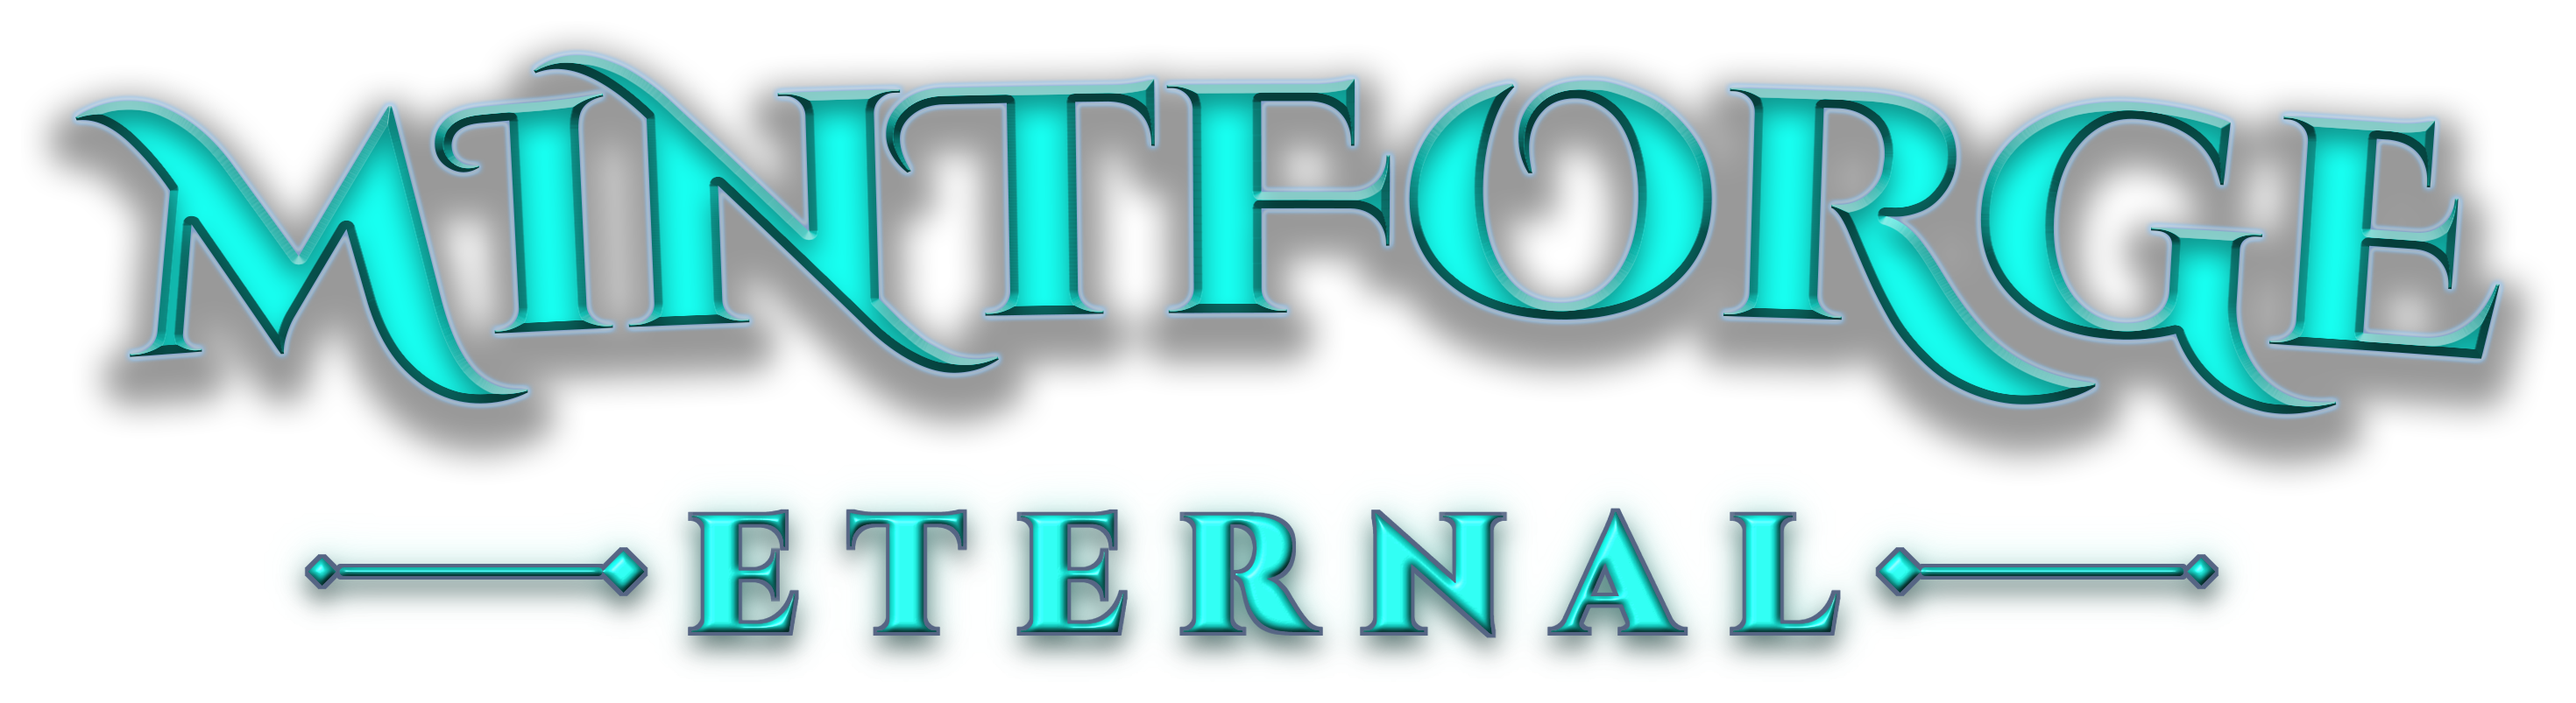
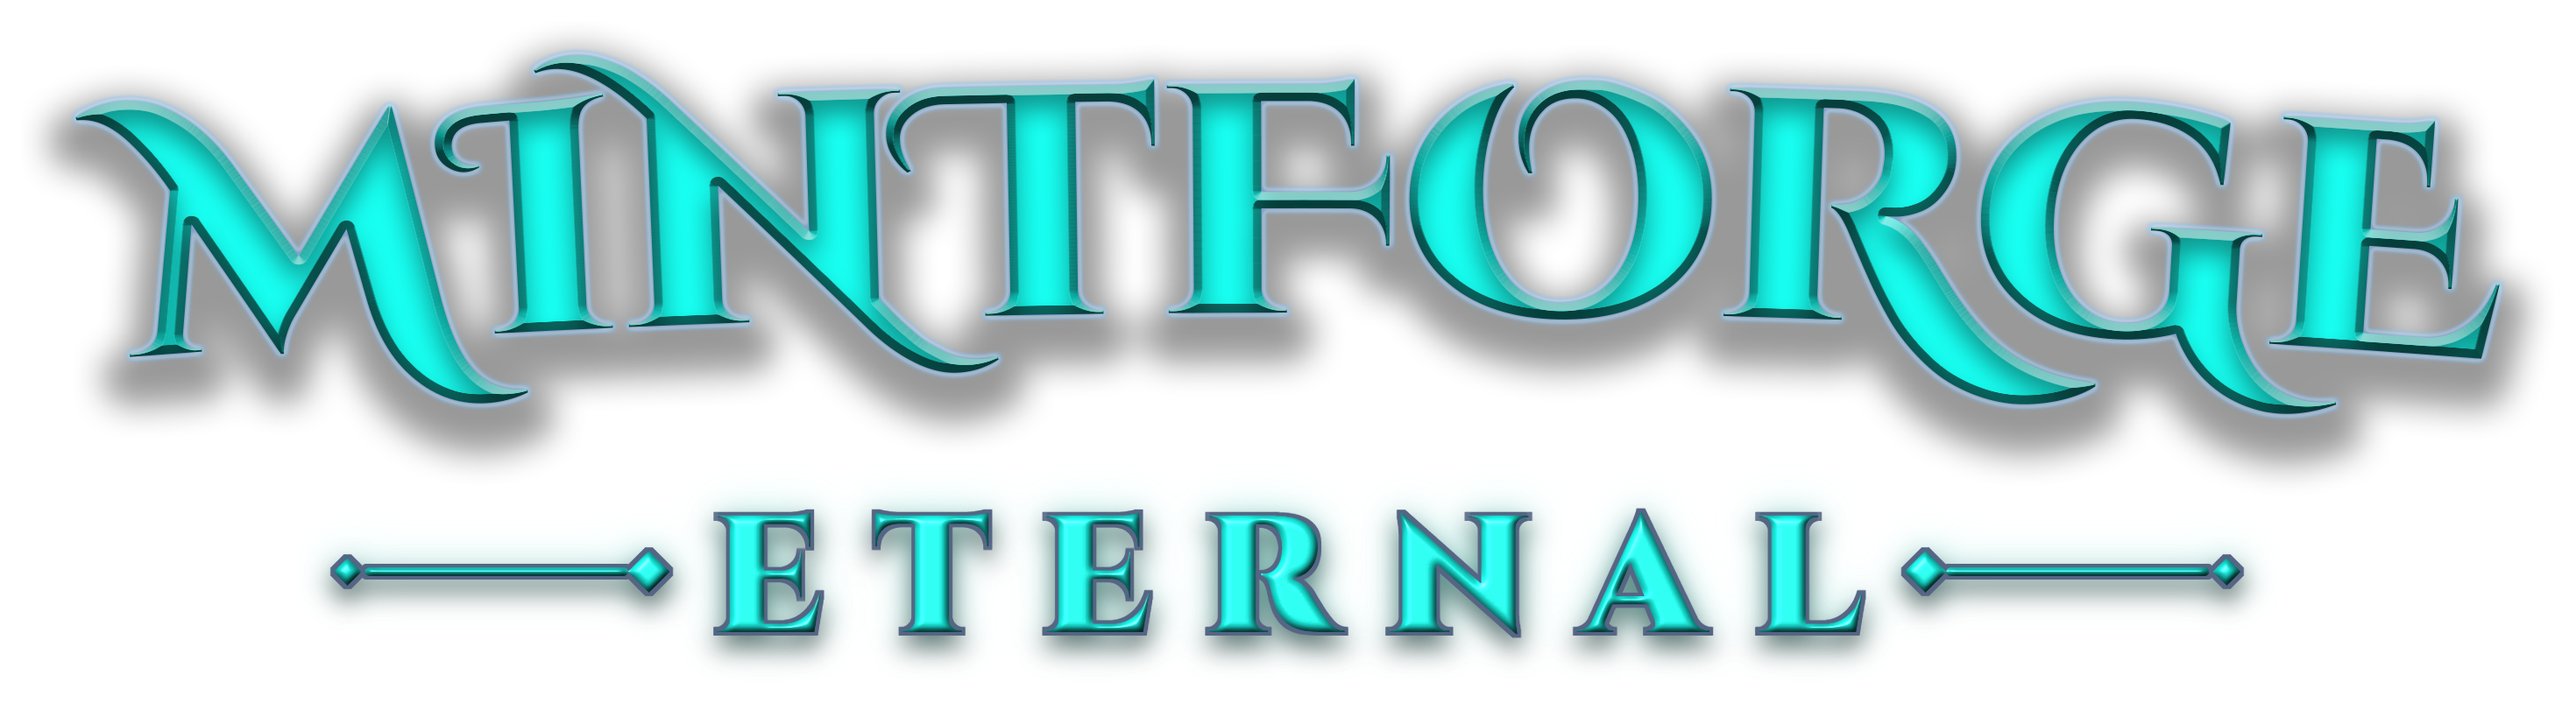
fix(title): centre ETERNAL under MINTFORGE
Cinzel's letter-spacing leaves trailing space after the last glyph,
which pushed the ETERNAL row 30px left of the lockup's centre. Offset
the text by half the spacing so both rows (and the crystal below)
share one centre line.

Changed region(s): [[0.2167, 0.7161, 0.7738, 0.934], [0.0929, 0.7783, 0.1548, 0.8717], [0.8357, 0.7783, 0.8976, 0.8717]]

diff --git a/scripts/title-eternal.html b/scripts/title-eternal.html
@@ -50,7 +50,7 @@ svg{position:absolute;left:0;top:0}
   </filter>
 </defs>
 <g filter="url(#metal)" fill="#fff">
-  <text id="word" x="1448" y="700" text-anchor="middle" font-family="Cinzel" font-weight="900" font-size="190" letter-spacing="58">ETERNAL</text>
+  <text id="word" x="1477" y="700" text-anchor="middle" font-family="Cinzel" font-weight="900" font-size="190" letter-spacing="58">ETERNAL</text>
   <g id="orn"></g>
 </g>
 </svg>
